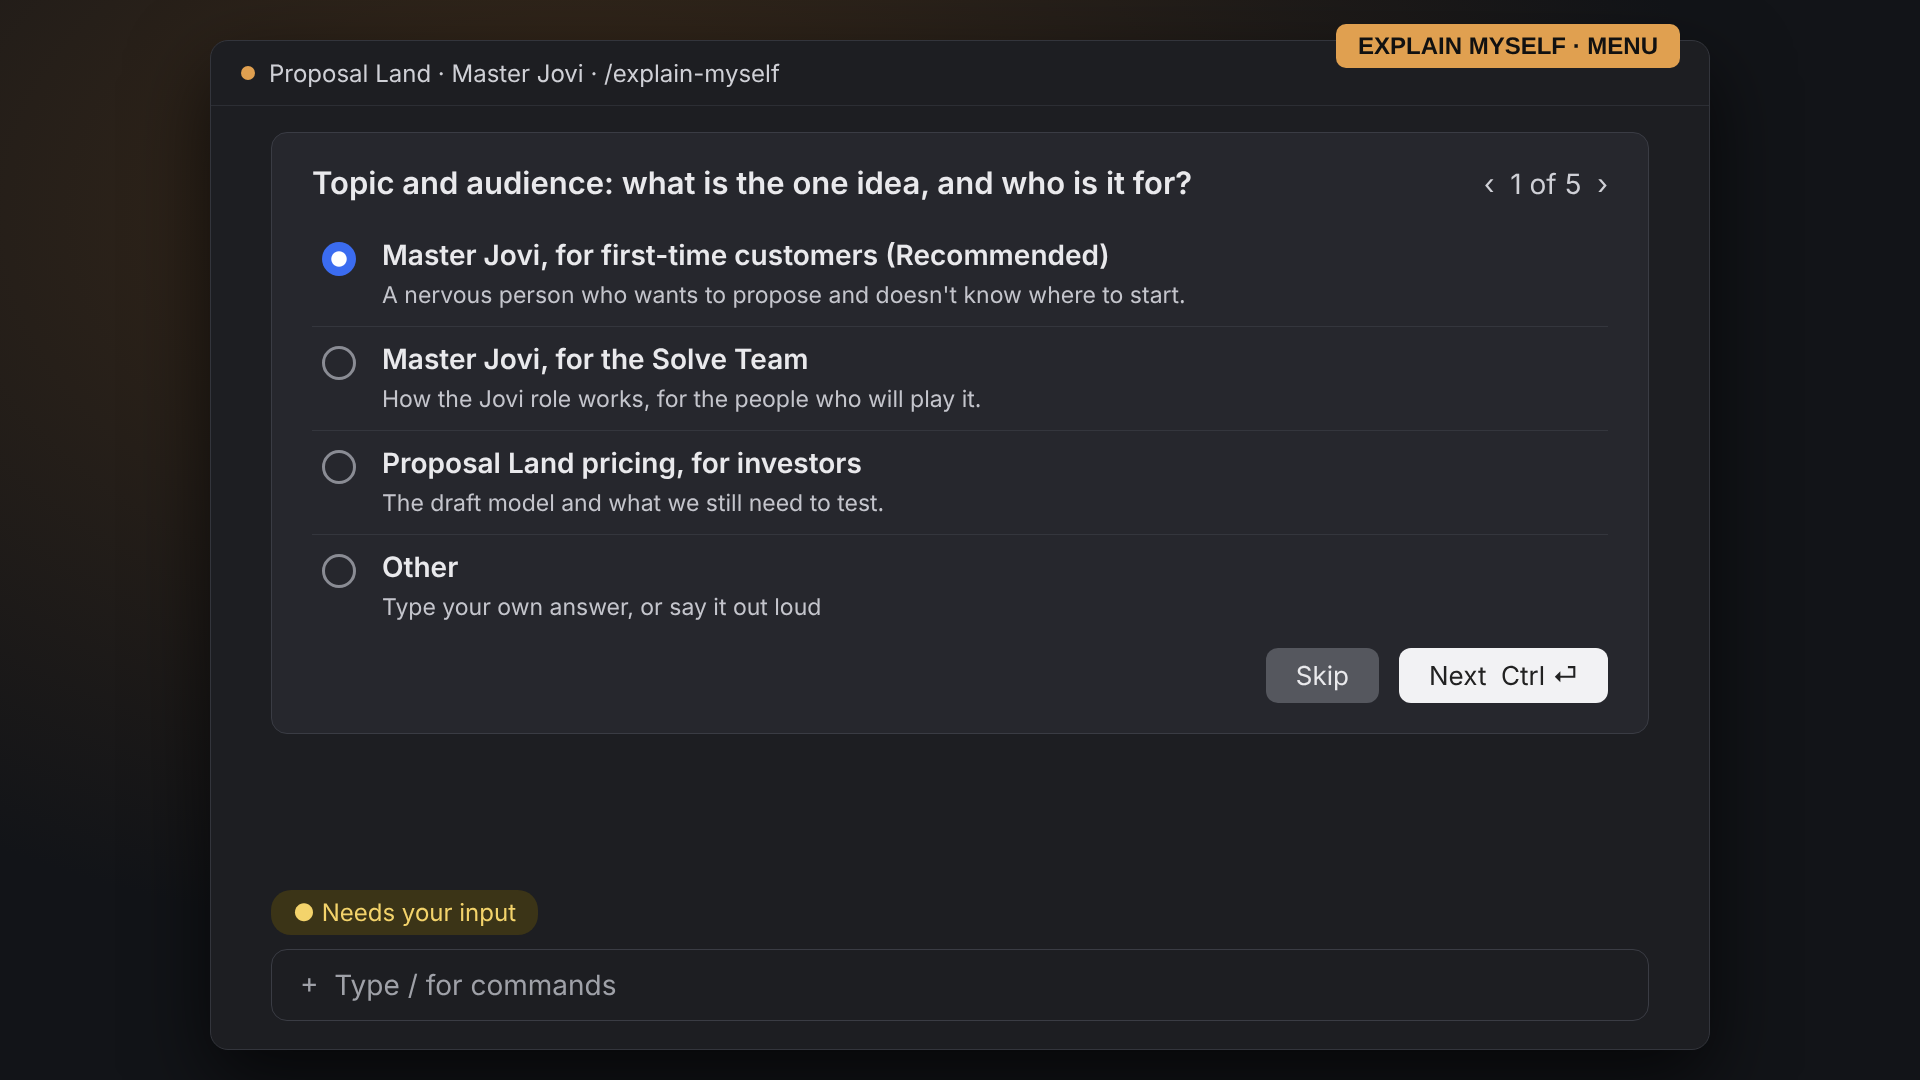
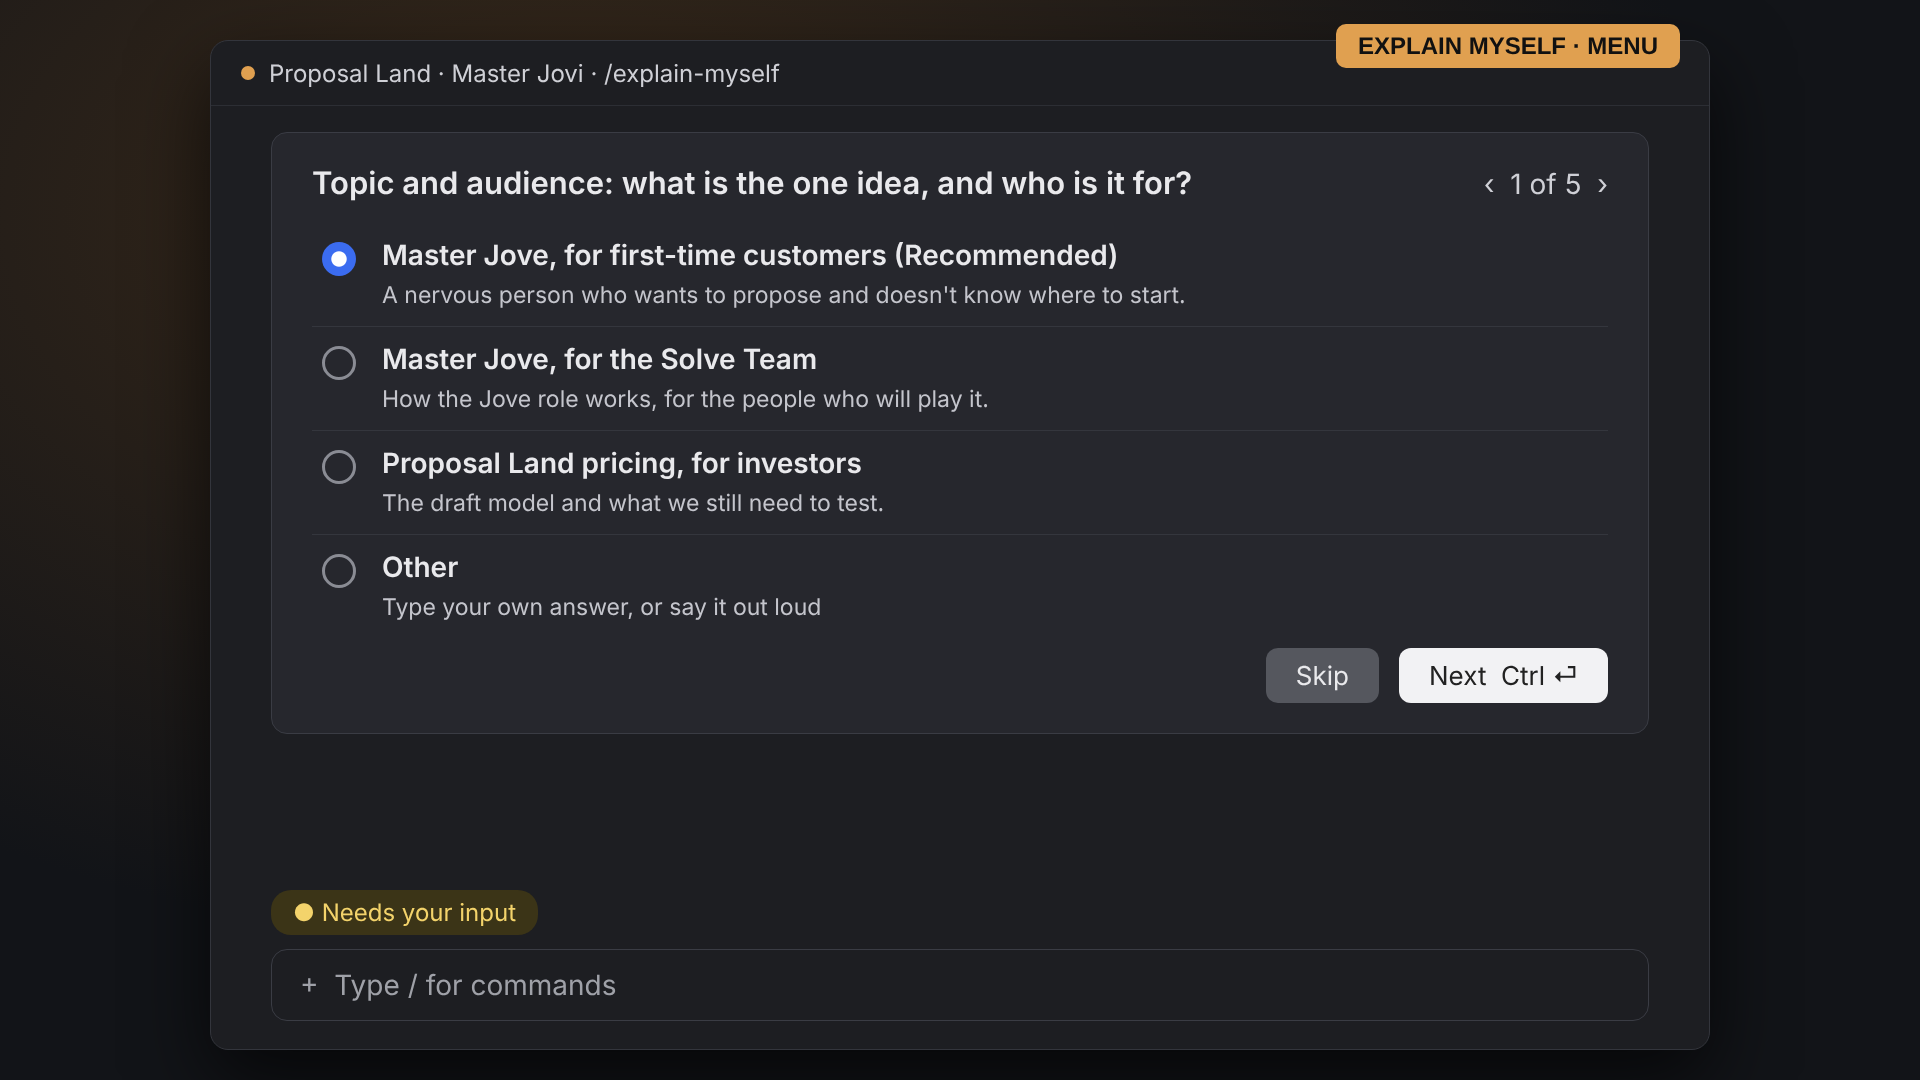
Spell the character Master Jove (said JO-vee); point to corrected films
Claude-Session: https://claude.ai/code/session_01VDrnVJ7grYwcjkr89D5xHj

Changed region(s): [[0.2812, 0.3056, 0.5, 0.3972], [0.2812, 0.2139, 0.5938, 0.2444]]

diff --git a/docs/index.html b/docs/index.html
@@ -22,12 +22,12 @@ code{background:var(--mark);padding:1px 6px;border-radius:6px}.menus img{border:
 
 <h2>1 · What the explainer is (6:52)</h2>
 <p class="muted">Freya explains the skill, shows every menu and how to answer it, the quality ladder, the media library, the honesty rules and the lessons we learned. Size 7 · High quality.</p>
-<video id="v2" controls preload="metadata" poster="assets/f2studio.jpg" src="https://d2ol7oe51mr4n9.cloudfront.net/user_3It1NTIzZ2fajgEonB2AdHxDLvF/a89faa25-0e9d-42eb-ae14-046918436b3a.mp4"></video>
+<video id="v2" controls preload="metadata" poster="assets/f2studio.jpg" src="https://d2ol7oe51mr4n9.cloudfront.net/user_3It1NTIzZ2fajgEonB2AdHxDLvF/e3428b3b-a274-46ab-835f-6f40ef30a51e.mp4"></video>
 <div class="speed" data-for="v2"></div>
 
-<h2>2 · Example: Master Jovi (4:40)</h2>
-<p class="muted">Master Jovi presents Proposal Land to a first-time customer. Tim's menu choices: first-time customer · fast, warm answers · 1NTC Murphy · size 7 · High quality · ends on Casey verifying his email by Wed 25 Nov. Facts from proposalland.love; Jovi's look from our Proposal Land five-minute film.</p>
-<video id="v1" controls preload="metadata" poster="assets/jcafe.jpg" src="https://d2ol7oe51mr4n9.cloudfront.net/user_3It1NTIzZ2fajgEonB2AdHxDLvF/ea84ff92-696f-47dc-970f-ad79a5cd98ec.mp4"></video>
+<h2>2 · Example: Master Jove (4:40)</h2>
+<p class="muted">Master Jove presents Proposal Land to a first-time customer. Tim's menu choices: first-time customer · fast, warm answers · 1NTC Murphy · size 7 · High quality · ends on Casey verifying his email by Wed 25 Nov. Facts from proposalland.love; Jove's look from our Proposal Land five-minute film.</p>
+<video id="v1" controls preload="metadata" poster="assets/jcafe.jpg" src="https://d2ol7oe51mr4n9.cloudfront.net/user_3It1NTIzZ2fajgEonB2AdHxDLvF/d8a95e9e-2bc4-42bd-a49c-769393e79aee.mp4"></video>
 <div class="speed" data-for="v1"></div>
 
 <h2>3 · The five menus</h2>
@@ -53,7 +53,7 @@ code{background:var(--mark);padding:1px 6px;border-radius:6px}.menus img{border:
 <p>Every film leaves behind pictures, moving shots, voices and lip-sync clips. We keep them in one library. <b>Check the library before you make anything new; add what you make afterwards.</b> Recurring people look the same in every film:</p>
 <div class="grid">
 <figure class="card"><img src="assets/f2studio.jpg" alt="Freya"><figcaption><b>Freya</b> · AI helper and host · generated</figcaption></figure>
-<figure class="card"><img src="assets/jcafe.jpg" alt="Master Jovi"><figcaption><b>Master Jovi</b> · a role; character-concept face from our Proposal Land film. Today Casey plays the role.</figcaption></figure>
+<figure class="card"><img src="assets/jcafe.jpg" alt="Master Jove"><figcaption><b>Master Jove</b> · a role; character-concept face from our Proposal Land film. Today Casey plays the role.</figcaption></figure>
 <figure class="card"><img src="assets/samc.jpg" alt="Sam"><figcaption><b>Sam</b> · a first-time customer · generated</figcaption></figure>
 <figure class="card"><img src="assets/ruby.jpg" alt="Ruby Red"><figcaption><b>Ruby Red</b> · who we solve for · generated persona</figcaption></figure>
 </div>
@@ -142,9 +142,9 @@ code{background:var(--mark);padding:1px 6px;border-radius:6px}.menus img{border:
 <ul>
 <li><strong>50 Quality is a menu.</strong> Menu 4 asks: Draft (free, default) · Standard · High · Premium. Nobody gets a flat film by surprise.</li>
 <li><strong>51 Library first.</strong> Check the shared media library before generating anything. Add what you make afterwards.</li>
-<li><strong>52 Cast bible.</strong> Recurring people (Freya, Master Jovi, Sam, Ruby Red) look the same in every film. Use their reference image when you generate.</li>
+<li><strong>52 Cast bible.</strong> Recurring people (Freya, Master Jove, Sam, Ruby Red) look the same in every film. Use their reference image when you generate.</li>
 <li><strong>53 Plain-English scripts.</strong> Write like an aircraft maintenance manual (ASD-STE100 style): short sentences, one idea each, common words, active voice.</li>
-<li><strong>54 Real people and roles.</strong> Never invent a real person's face. A role (Master Jovi) may use a labelled character-concept face. Get pronouns right.</li>
+<li><strong>54 Real people and roles.</strong> Never invent a real person's face. A role (Master Jove) may use a labelled character-concept face. Get pronouns right.</li>
 <li><strong>55 Show the menus.</strong> When explaining the skill itself, show pictures of the menus and how to answer them.</li>
 </ul>
 
@@ -158,7 +158,7 @@ code{background:var(--mark);padding:1px 6px;border-radius:6px}.menus img{border:
 <h2>9 · What is and isn't tested</h2>
 <ul><li>Tested: both films were built end to end with this pipeline; menus, voices, lip-sync and motion shots render.</li>
 <li>Not tested: Freya's phone line and chat on proposalland.love; the explain-back step (nobody outside the team has watched and explained back yet); installing v0.5 on a fresh machine; the library browsing page (catalogue only so far).</li>
-<li>Labels: Freya is an AI; pictures and voices are generated; Master Jovi's face is a character concept; Proposal Land venues shown are concepts, not built; two lake/lodge photos are real, from proposalland.love.</li></ul>
+<li>Labels: Freya is an AI; pictures and voices are generated; Master Jove's face is a character concept; Proposal Land venues shown are concepts, not built; two lake/lodge photos are real, from proposalland.love.</li></ul>
 <p class="small muted">Who: Tim (owner) · Fidel (1NTC for v0.5) · What: review, polish, fold into the skill · When: Monday 30 November 2026.</p>
 </main>
 <script>

diff --git a/skill/explain-myself/SKILL.md b/skill/explain-myself/SKILL.md
@@ -11,9 +11,9 @@ No size given: ask, and recommend 3. Most messages need a 3 or a 5.
 ## What's new in v0.5 (24 Nov 2026, for Fidel to review and polish)
 - Rule 50: a fifth menu asks for **quality** (Draft, Standard, High, Premium), so nobody gets a flat film by surprise.
 - Rule 51: **library first**. Check the shared media library before generating anything; add what you make afterwards.
-- Rule 52: a **cast bible** keeps recurring people the same in every film (Freya, Master Jovi, Sam, Ruby Red).
+- Rule 52: a **cast bible** keeps recurring people the same in every film (Freya, Master Jove, Sam, Ruby Red).
 - Rule 53: **plain-English scripts**, written the way aerospace manuals are (ASD-STE100 style): short sentences, one idea each, common words, active voice.
-- Rule 54: **real people and roles**. Never invent a real person's face. A role such as Master Jovi may be shown with a character-concept face, labelled as a concept. Get pronouns right.
+- Rule 54: **real people and roles**. Never invent a real person's face. A role such as Master Jove may be shown with a character-concept face, labelled as a concept. Get pronouns right.
 - Rule 55: **show the menus**. When a film explains the skill, show pictures of the menus and how to answer them.
 
 ## The idea in one breath
@@ -53,7 +53,7 @@ Always ask for quality in the menus. Free is the default; a paid level counts as
 | Standard | Photoreal stills with camera moves, real lip-sync on talking faces | Wan 2.7 lip-sync | about 1.5 credits a second of talking |
 | High | Every picture becomes a short moving shot, plus lip-sync | Kling 3.0 standard (silent) for motion, Wan 2.7 lip-sync | about 1.5 credits a second of film overall |
 | Premium | High, plus presenters who move and gesture while they talk | Grok Video 1.5 with our voice as audio reference, or Intone for a final cut | about 4.5 to 7 credits a second of talking |
-Example: the High-quality Master Jovi (about 5 min) and "What the explainer is" (about 7 min) films used about 750 credits together.
+Example: the High-quality Master Jove (about 5 min) and "What the explainer is" (about 7 min) films used about 750 credits together.
 
 ## Draft first, cheapest lip-sync (rule 48, Tim, 24 Nov 2026)
 Every film starts as a draft. In draft mode, lip-sync uses the cheapest option that moves the lips at all; it may be well off. Order today: Claude's own lip-sync (free), then Wan 2.7 on Higgsfield (about 1.5 credits a second, 720p, clips up to 15 s, lines grouped). Polished lip-sync (Higgsfield Intone, about 7 credits a second at 720p) only when the 1NTC asks for a final cut. Paid services stay off unless the person has named them (rule 43). Review this list whenever a free or near-free lip-sync service appears.
@@ -89,7 +89,7 @@ Everything else: infer, and list your assumptions on the page under the film.
 
 ## Library first and the cast bible (rules 51 and 52)
 - Before generating, look in the shared media library (library/catalogue.json in the repo, media in the shared OneDrive "Rosling Media Library"). Reuse a picture, motion shot, voice or lip-sync clip when it fits.
-- Recurring people come from the cast bible so they look the same everywhere: Freya (AI helper), Master Jovi (a role; character-concept face from the Proposal Land film), Sam (a customer), Ruby Red (who we solve for). Use their reference image as an image reference when you generate new shots.
+- Recurring people come from the cast bible so they look the same everywhere: Freya (AI helper), Master Jove (a role; character-concept face from the Proposal Land film), Sam (a customer), Ruby Red (who we solve for). Use their reference image as an image reference when you generate new shots.
 - After the film, add every new asset to the catalogue: who is in it, what it shows, size, quality, cost, stand-in yes/no, consent yes/no, link.
 - Real people only with their consent and their real photos.
 

diff --git a/FILMS.md b/FILMS.md
@@ -2,8 +2,8 @@
 
 | Film | Length | Quality | Public link |
 |---|---|---|---|
-| What the explainer is (Freya explains the skill, the five menus, quality, library, rules) | 6:52 | Size 7 · High | https://d2ol7oe51mr4n9.cloudfront.net/user_3It1NTIzZ2fajgEonB2AdHxDLvF/a89faa25-0e9d-42eb-ae14-046918436b3a.mp4 |
-| Example: Master Jovi, a first-time customer's journey (Jovi presents) | 4:40 | Size 7 · High | https://d2ol7oe51mr4n9.cloudfront.net/user_3It1NTIzZ2fajgEonB2AdHxDLvF/ea84ff92-696f-47dc-970f-ad79a5cd98ec.mp4 |
+| What the explainer is (Freya explains the skill, the five menus, quality, library, rules) | 6:52 | Size 7 · High | https://d2ol7oe51mr4n9.cloudfront.net/user_3It1NTIzZ2fajgEonB2AdHxDLvF/e3428b3b-a274-46ab-835f-6f40ef30a51e.mp4 |
+| Example: Master Jove, a first-time customer's journey (Jove presents) | 4:40 | Size 7 · High | https://d2ol7oe51mr4n9.cloudfront.net/user_3It1NTIzZ2fajgEonB2AdHxDLvF/d8a95e9e-2bc4-42bd-a49c-769393e79aee.mp4 |
 
 Both films: Kokoro voices (free), GPT Image pictures matched to the cast bible, Kling 3.0 moving shots, Wan 2.7 lip-sync. About 740 Higgsfield credits together.
-Labels on screen: Freya is an AI; pictures and voices generated; Master Jovi is a role and this face is a character concept; Proposal Land venues are concepts, not built; two lake/lodge shots are real photos from proposalland.love, animated.
+Labels on screen: Freya is an AI; pictures and voices generated; Master Jove is a role and this face is a character concept; Proposal Land venues are concepts, not built; two lake/lodge shots are real photos from proposalland.love, animated.

diff --git a/RULES.md b/RULES.md
@@ -36,7 +36,7 @@ The full wording of rules 1–34 is on the v0.3 Rules page. If it isn't in this 
 ## New in v0.5 (24 Nov 2026), for Fidel's review
 - **50 Quality is a menu.** Menu 4 asks: Draft (free, default) · Standard · High · Premium. Nobody gets a flat film by surprise.
 - **51 Library first.** Check the shared media library before generating anything. Add what you make afterwards.
-- **52 Cast bible.** Recurring people (Freya, Master Jovi, Sam, Ruby Red) look the same in every film. Use their reference image when you generate.
+- **52 Cast bible.** Recurring people (Freya, Master Jove, Sam, Ruby Red) look the same in every film. Use their reference image when you generate.
 - **53 Plain-English scripts.** Write like an aircraft maintenance manual (ASD-STE100 style): short sentences, one idea each, common words, active voice.
-- **54 Real people and roles.** Never invent a real person's face. A role (Master Jovi) may use a labelled character-concept face. Get pronouns right.
+- **54 Real people and roles.** Never invent a real person's face. A role (Master Jove) may use a labelled character-concept face. Get pronouns right.
 - **55 Show the menus.** When explaining the skill itself, show pictures of the menus and how to answer them.

diff --git a/library/README.md b/library/README.md
@@ -2,7 +2,7 @@
 
 **Shelves** hold the media (pictures, moving shots, voices, lip-sync clips, finished films). Big files live in the shared OneDrive "Rosling Media Library" or as public links; small reference pictures live here in `cast/`.
 **The card catalogue** is `catalogue.json`: one entry per item, saying who is in it, what it shows, its size and quality, what it cost, and whether it is a stand-in or a concept.
-**The cast bible** is the `cast` list in the catalogue: Freya, Master Jovi, Sam and Ruby Red, each with reference pictures, a voice and an on-screen label.
+**The cast bible** is the `cast` list in the catalogue: Freya, Master Jove, Sam and Ruby Red, each with reference pictures, a voice and an on-screen label.
 
 Rules: check the library before you make anything new (rule 51). Use cast references so people look the same in every film (rule 52). Add what you make afterwards. Real people only with consent and their real photos (rule 54).
 

diff --git a/MENUS.md b/MENUS.md
@@ -11,4 +11,4 @@ Claude asks these as clickable multiple-choice questions (in Claude Code and cla
 | 4 | Quality (new in v0.5): Draft free, Standard, High, Premium | ![](menus/menu4.png) |
 | 5 | Ending: who does what, by when | ![](menus/menu5.png) |
 
-The pictures are faithful mock-ups of the real menu, filled with the answers Tim gave for the Master Jovi film.
+The pictures are faithful mock-ups of the real menu, filled with the answers Tim gave for the Master Jove film.
